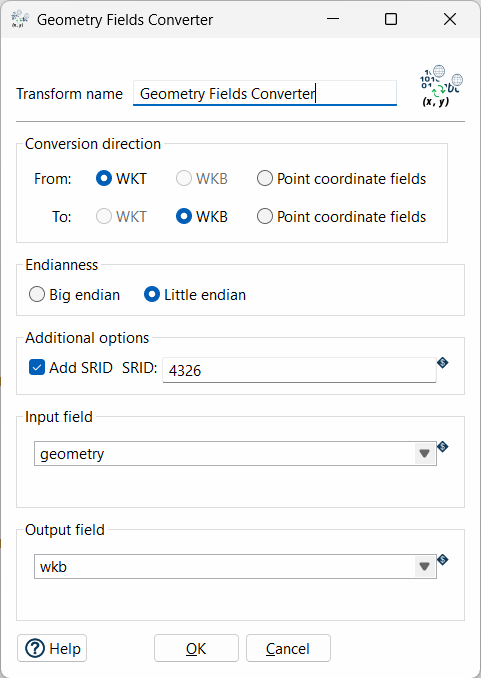
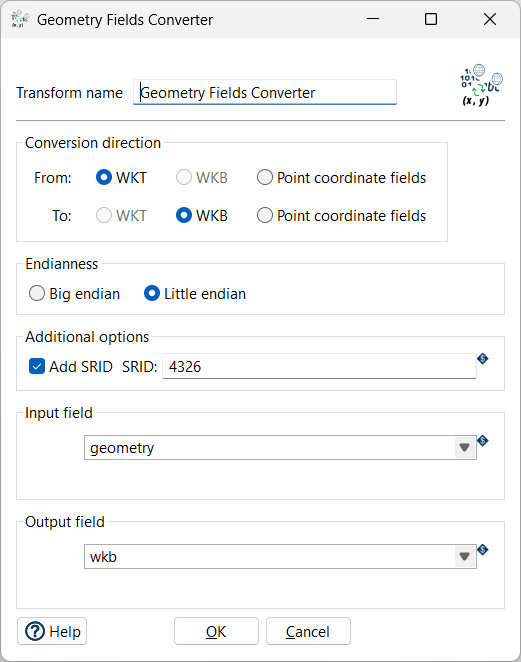
update dialog.png

diff --git a/README.md b/README.md
@@ -9,7 +9,7 @@ This enables users to perform geospatial operations using the [Hop GIS Plugins b
 The Transform treats fields of the type ``Geometry`` as WKT. \
 This plugin was developed and tested for Apache Hop version 2.16.
 
-<img src="resources/dialog.png" alt="Dialog window of the plugin" width="481"/>
+<img src="resources/dialog.png" alt="Dialog window of the plugin" width="400"/>
 
 ![Pipeline Status](https://gitlab.ost.ch//apache-hop-plugin-sa/apache-hop-plugins-geometry-fields-converter/badges/main/pipeline.svg)
 ![Latest Release](https://gitlab.ost.ch/apache-hop-plugin-sa/apache-hop-plugins-geometry-fields-converter/-/badges/release.svg)
